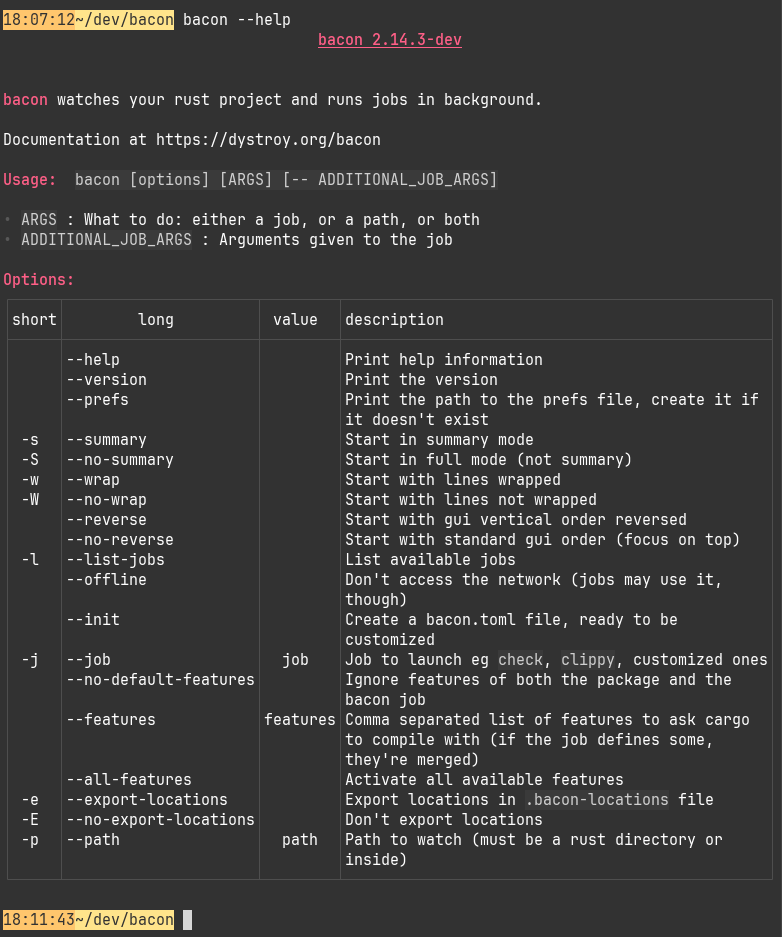
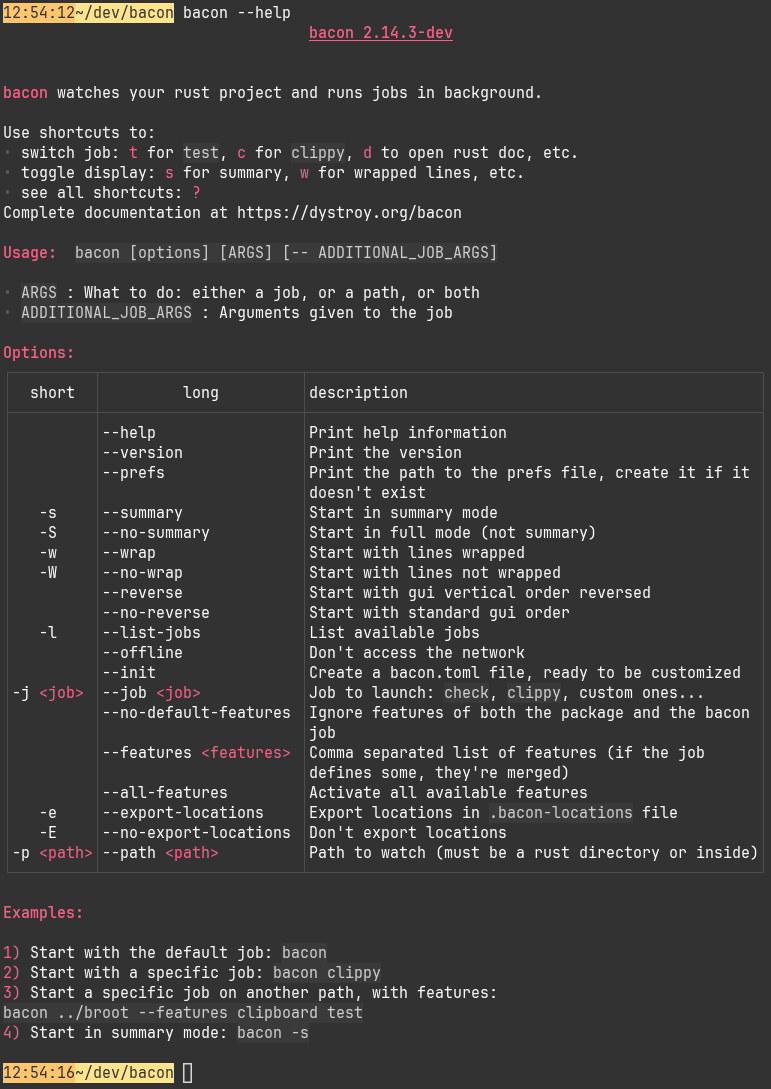
version 1.2.0

diff --git a/src/printer.rs b/src/printer.rs
@@ -39,6 +39,18 @@ ${option-lines
 |-
 ";
 
+/// a template for the "options" section with the value merged to short and long
+pub static TEMPLATE_OPTIONS_MERGED_VALUE: &str = "
+**Options:**
+|:-:|:-:|:-|
+|short|long|description|
+|:-:|:-|:-|
+${option-lines
+|${short} *${value-short-braced}*|${long} *${value-long-braced}*|${help}${possible_values}${default}|
+}
+|-
+";
+
 /// Keys used to enable/disable/change templates
 pub static TEMPLATES: &[&str] = &[
     "title",
@@ -50,8 +62,41 @@ pub static TEMPLATES: &[&str] = &[
     "bugs",
 ];
 
-/// An object which you can configure to print the
-/// help of a command
+/// An object which you can configure to print the help of a command
+///
+/// For example, changing the color of bold text and using an alternate
+///   template for the options section:
+///
+/// ```rust
+/// use clap::{CommandFactory, Parser, ValueEnum};
+/// use clap_help::Printer;
+///
+/// #[derive(Parser, Debug)]
+/// #[command(author, version, about, disable_help_flag = true)]
+/// struct Args {
+///
+///     /// Print help
+///     #[arg(long)]
+///     help: bool,
+///
+///     /// Comma separated list of features
+///     #[clap(long, value_name = "features")]
+///     pub features: Option<String>,
+/// }
+///
+/// fn main() {
+///     let args = Args::parse();
+///     if args.help {
+///         let mut printer = clap_help::Printer::new(Args::command())
+///             .with("options", clap_help::TEMPLATE_OPTIONS_MERGED_VALUE);
+///         printer.skin_mut().bold.set_fg(ansi(204));
+///         printer.print_help();
+///         return;
+///     }
+///     // rest of the program
+/// }
+///
+/// ```
 pub struct Printer<'t> {
     skin: MadSkin,
     expander: OwningTemplateExpander<'static>,
@@ -165,6 +210,16 @@ impl<'t> Printer<'t> {
             if arg.get_action().takes_values() {
                 if let Some(name) = arg.get_value_names().and_then(|arr| arr.first()) {
                     sub.set("value", name);
+                    let braced = format!("<{}>", name);
+                    sub.set("value-braced", &braced);
+                    if arg.get_short().is_some() {
+                        sub.set("value-short-braced", &braced);
+                        sub.set("value-short", name);
+                    }
+                    if arg.get_long().is_some() {
+                        sub.set("value-long-braced", &braced);
+                        sub.set("value-long", name);
+                    }
                 };
             }
             let mut possible_values = arg.get_possible_values();

diff --git a/examples/custom/main.rs b/examples/custom/main.rs
@@ -10,18 +10,6 @@ Compute `height x width`
 More info at *https://dystroy.org*
 ";
 
-pub static TEMPLATE_OPTIONS: &str = "
-
-**Options:**
-|:-:|:-:|:-|
-|short|long|what it does|
-|:-:|:-|:-|
-${option-lines
-|*${short}*|*${long}*|${help}${possible_values}${default}|
-}
-|-
-";
-
 /// Application launch arguments
 #[derive(Parser, Debug)]
 #[command(name = "custom", author, version, about, disable_help_flag = true)]
@@ -67,7 +55,7 @@ fn main() {
         let mut printer = Printer::new(Args::command())
             .without("author")
             .with("introduction", INTRO)
-            .with("options", TEMPLATE_OPTIONS);
+            .with("options", clap_help::TEMPLATE_OPTIONS_MERGED_VALUE);
         let skin = printer.skin_mut();
         skin.headers[0].compound_style.set_fg(ansi(202));
         skin.bold.set_fg(ansi(202));

diff --git a/README.md b/README.md
@@ -31,21 +31,13 @@
 
 **clap-help** is especially suited to small terminals or big numbers of options.
 
-Note: there's no support for subcommands, create an issue if you need it.
+Note: there's no support for subcommands yet.
 
-## Comparison
+## Example
 
-This comparison uses the [broot](https://github.com/Canop/broot) program.
+The [bacon](https://dystroy.org/bacon) programs uses clap-help with an introduction text, a clearer options table, examples, and a skin consistent with the rest of the application
 
-### With clap-help
-
-![broot-clap-help](doc/broot-clap-help.png)
-
-### With the standard help rendering
-
-![broot-vanilla](doc/broot-vanilla.png)
-
-*(my screen isn't big enough to fit even half the help page)*
+![bacon](doc/bacon.png)
 
 ## Usage
 
@@ -169,70 +161,42 @@ printer.print_help();
 
 [complete code of the example](examples/with-examples/main.rs)
 
+
 ### Changing the skin
 
 If your program has some kind of graphical identity, you may want to extend it to the help.
 
-This is the case of [bacon](https://dystroy.org/bacon) which features this kind of saturated pink that kids associate to pigs.
+You may change colors, preferably with more compatible [ansi color codes](https://en.wikipedia.org/wiki/ANSI_escape_code#8-bit).
 
-This change was easily done by setting the [color](https://en.wikipedia.org/wiki/ANSI_escape_code#8-bit) of first level headers and bold:
-
-```rust
-let mut printer = clap_help::Printer::new(Args::command())
-    .with("introduction", INTRO)
-    .without("author");
-let skin = printer.skin_mut();
-skin.headers[0].compound_style.set_fg(ansi(204));
-skin.bold.set_fg(ansi(204));
-printer.print_help();
-```
-
-Result:
-
-![bacon](doc/bacon.png)
-
-### Customizing more: changing both the skin and the templates
-
-The example in `examples/custom` mainly features:
-
-* less restreint on the colors
-* a removal of the `value` column
+See example in `examples/custom` mainly features:
 
 ![custom](doc/custom.png)
 
 The strategy for those changes is
 
 * to redefine the `bold`, `italic`, and `inline_code` styles to change their foreground color, to remove the background of the code, and to remove the Italic attribute of `italic`
-* to change the `"options"` template so that `${short}` and `${long}` are in italic (i.e. between stars in Markdown)
-* to modify the template to remove the unwanted column
+* to use the `TEMPLATE_OPTIONS_MERGED_VALUE` template for options
 
 Here are the relevant parts of the code:
 
 
 ```rust
-pub static TEMPLATE_OPTIONS: &str = "
+static INTRO: &str = "
 
-**Options:**
-|:-:|:-:|:-|
-|short|long|what it does|
-|:-:|:-|:-|
-${option-lines
-|*${short}*|*${long}*|${help}${possible_values}${default}|
-}
-|-
+Compute `height x width`
+More info at *https://dystroy.org*
 ";
-```
 
-```rust
 let mut printer = Printer::new(Args::command())
     .without("author")
     .with("introduction", INTRO)
-    .with("options", TEMPLATE_OPTIONS);
+    .with("options", clap_help::TEMPLATE_OPTIONS_MERGED_VALUE);
 let skin = printer.skin_mut();
 skin.headers[0].compound_style.set_fg(ansi(202));
 skin.bold.set_fg(ansi(202));
 skin.italic = termimad::CompoundStyle::with_fg(ansi(45));
 skin.inline_code = termimad::CompoundStyle::with_fg(ansi(223));
+skin.table_border_chars = termimad::ROUNDED_TABLE_BORDER_CHARS;
 printer.print_help();
 ```
 
@@ -240,5 +204,5 @@ Complete example is in `/examples/custom` and can be seen with `cargo run --exam
 
 Please note that not every customization is possible or easy.
 And some may be easy but not obvious.
-Come to the chat and ask if needed.
+Come to [the chat](https://miaou.dystroy.org/3768?rust) and ask if needed.
 

diff --git a/CHANGELOG.md b/CHANGELOG.md
@@ -1,3 +1,7 @@
+<a name="1.2.0"></a>
+### v1.2.0 - 2024-03-05
+- `TEMPLATE_OPTIONS_MERGED_VALUE` alterate options template, easier to read and more compact for most applications
+
 <a name="1.1.2"></a>
 ### v1.1.2 - 2024-02-29
 - fix some unwanted possible values and default values with clap 4.4.14+ - Fix #2
